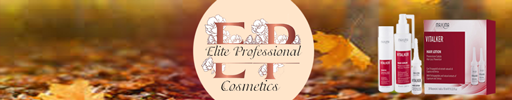
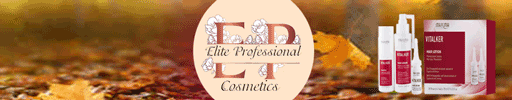
Reducing images size

diff --git a/about.html b/about.html
@@ -28,18 +28,18 @@
     <main>
         <div class="container1" style="padding: 60px;">
             <h1>Certified specialist</h1>
-            <p style="text-align: justify;">
+            <p style="text-align: center;">
                 Elite Professional Cosmetics
                 is a beauty salon certified to
                 perform treatments using professional devices and products in the field of cosmetics. 
             </p>
             <h1>State-of-the-art treatments</h1>
-            <p style="text-align: justify;">
+            <p style="text-align: center;">
                 Cosmetic treatments based
                 on the latest trends with visible results after the first treatments
             </p>
             <h1>Pleasant and clean environment</h1>
-            <p style="text-align: justify;">
+            <p style="text-align: center;">
             New premises equipped with beautiful
             and clean equipment in the Denta s.r.o. dental clinic building opposite the Želiezovce Municipal Office.
             </p>

diff --git a/styles.css b/styles.css
@@ -14,7 +14,7 @@ body {
 
 /* Header */
 header {
-    background-image: url("images/web_banner.jpg");
+    background-image: url("images/web_banner.png");
     background-position: center;
     background-repeat: no-repeat;
     padding: 0 1rem;
@@ -306,6 +306,9 @@ footer {
       background-attachment: scroll;
       width: 100%;
     }
+    .container1 {
+        text-align: center;
+    }
   }
 
 /* Large devices (laptops and desktops, 992px and up) */
@@ -388,6 +391,9 @@ footer {
         display: flex;
         justify-content: space-evenly;
         width: 100%;
+    }
+    .container1 {
+        font-size: 150%;
     }
     footer {
         display: flex;

diff --git a/README.md b/README.md
@@ -21,6 +21,7 @@ The Elite cosmetic describes the industry that manufactures and distributes cosm
 
 ### The About 
 [ABOUT](https://hishamarashini.github.io/Project1_update/about.html)
+<a href="https://hishamarashini.github.io/Project1_update/about.html">ABOUT</a>
 
  - The About section gives details of the services and type of special treatrment that are done in company.
 
